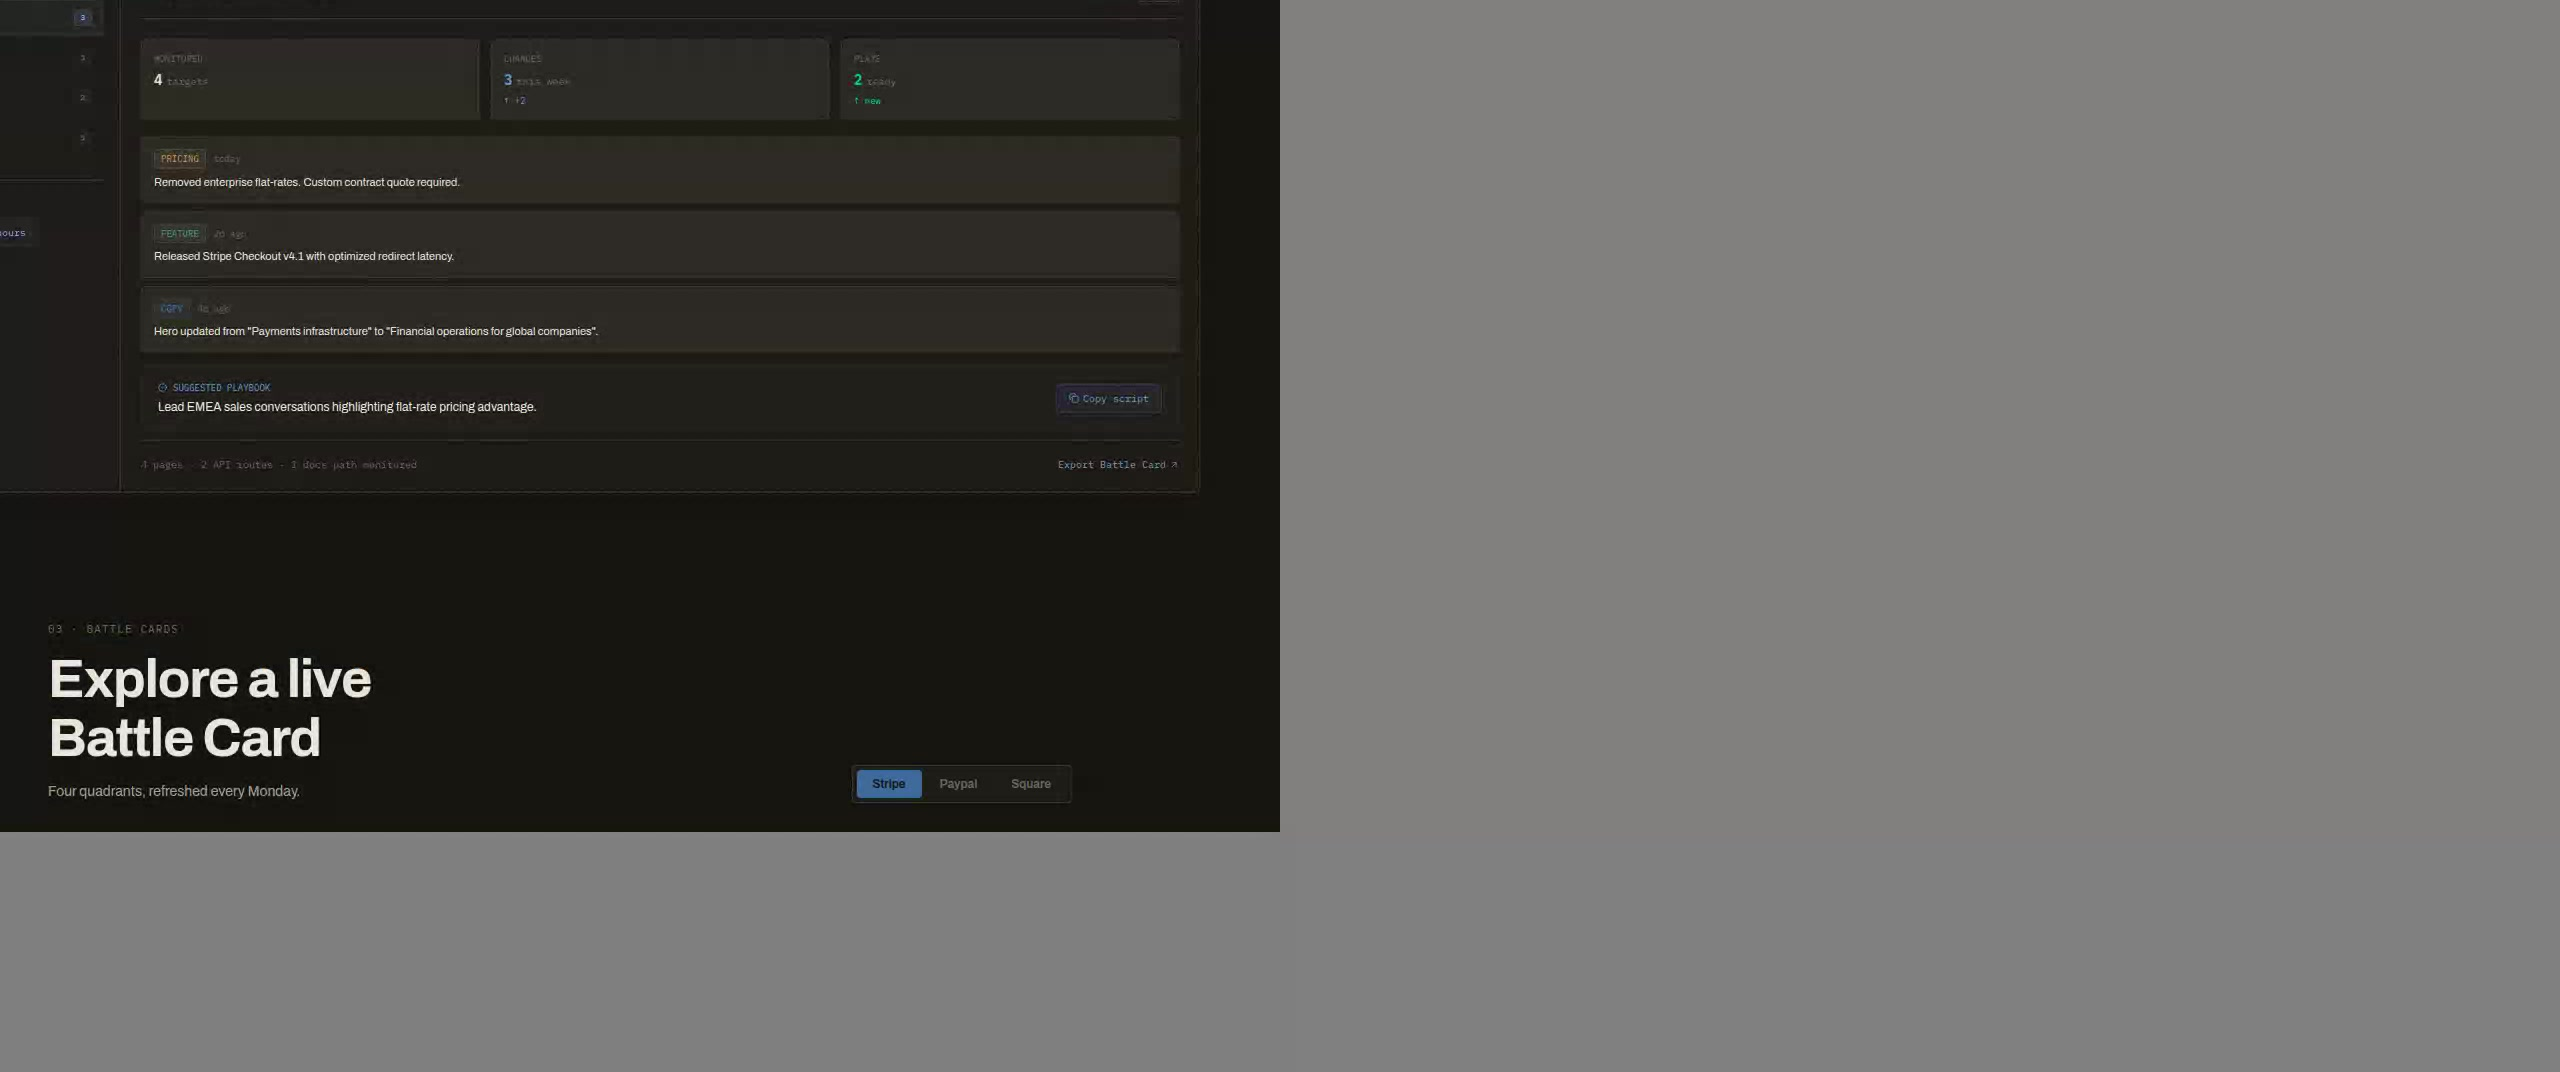
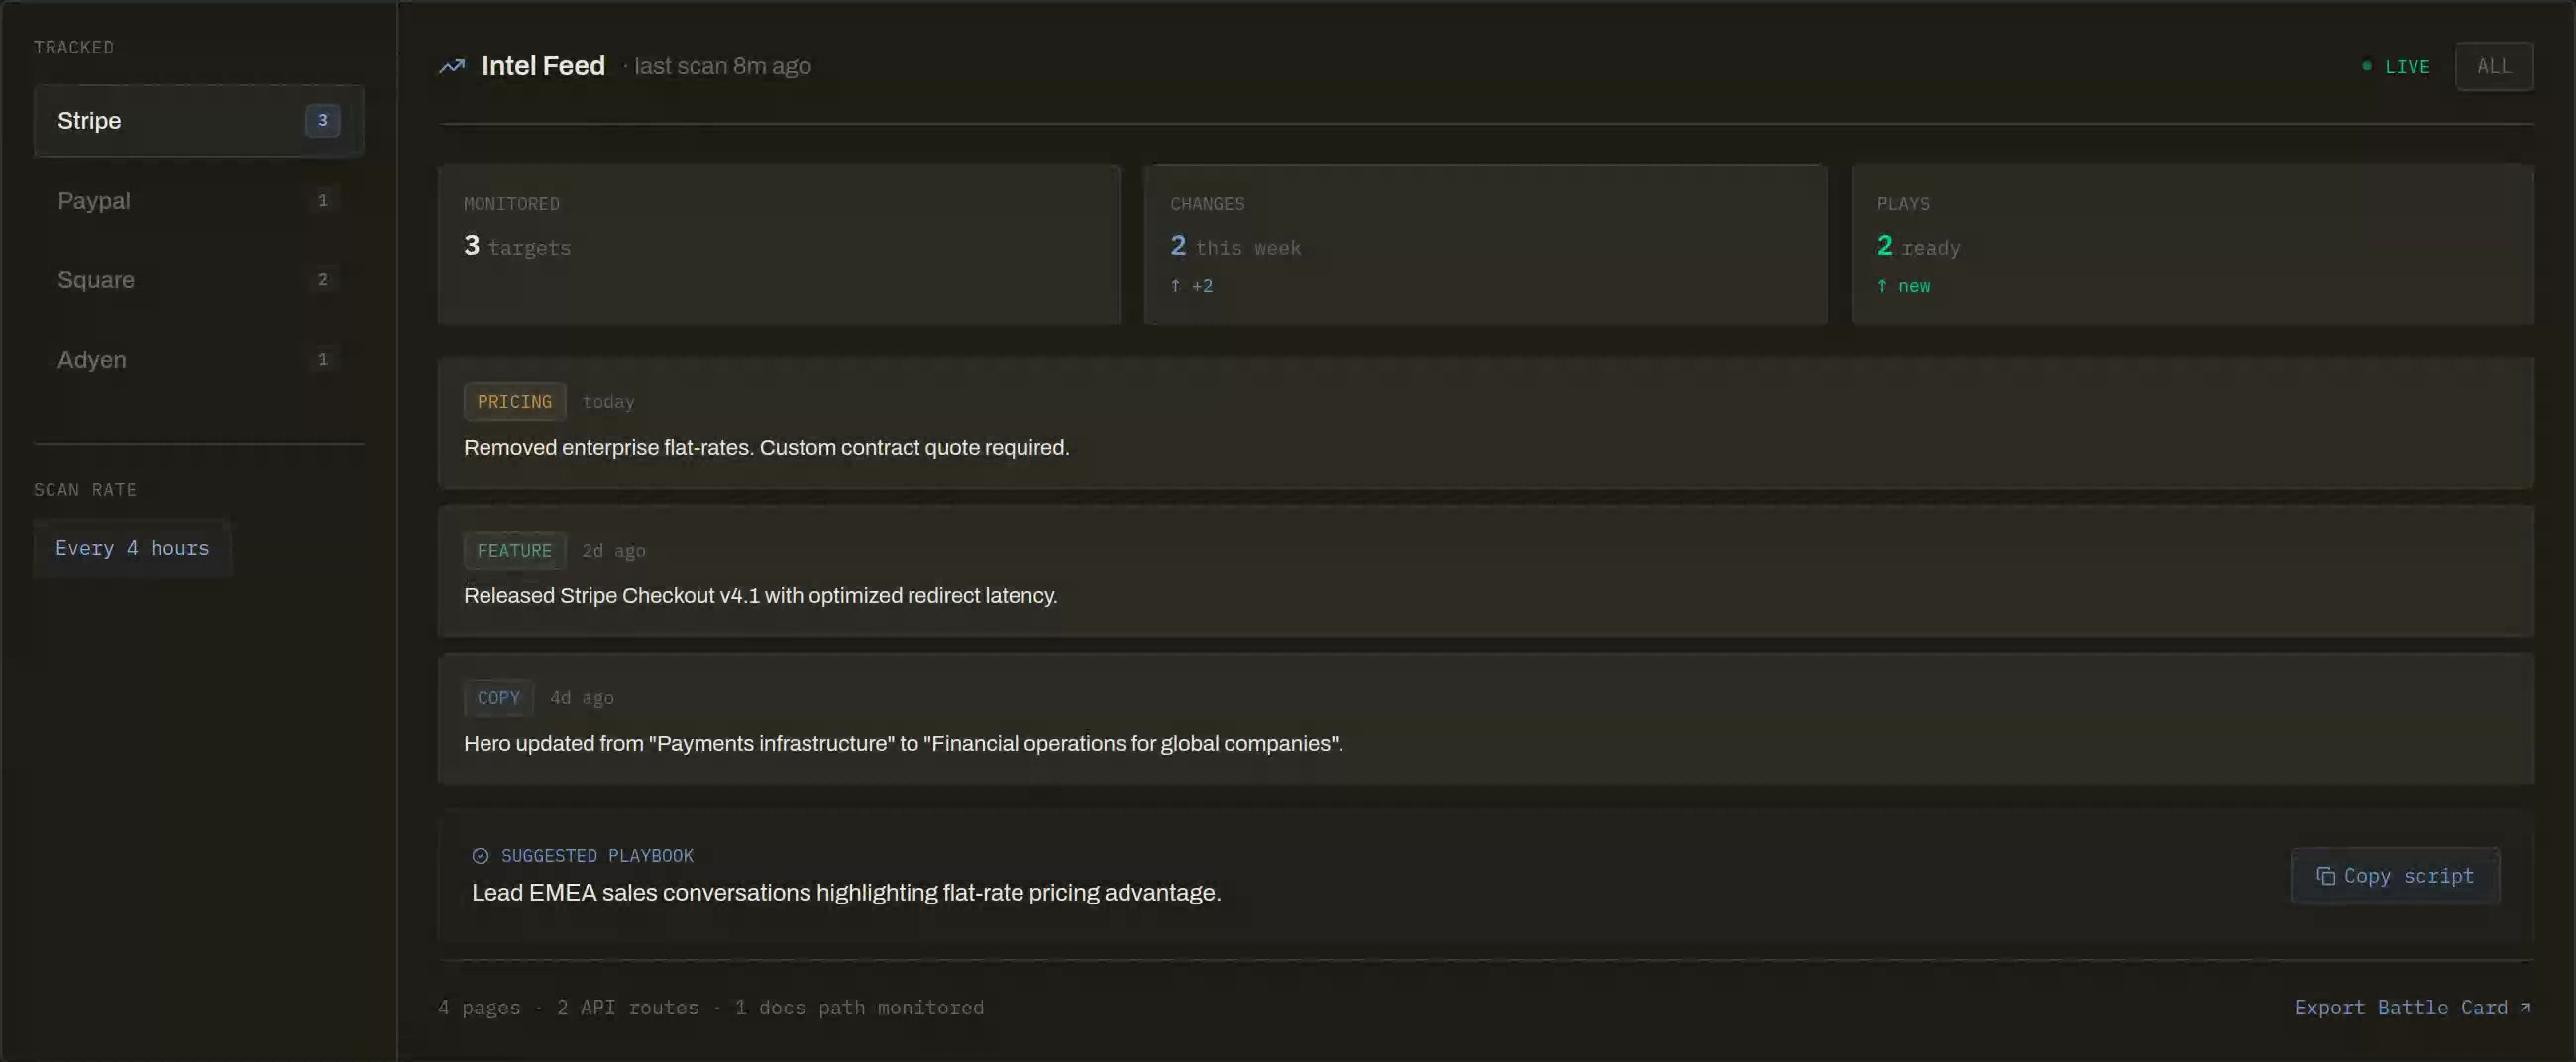
fix(landing): demo video rendered gray/partial — re-encode at true 2K
Previous 2x attempt was broken: Playwright recordVideo.size ignores
deviceScaleFactor, so it placed the CSS-sized page in the top-left of the
canvas and left the rest gray — the encoded frame was mostly empty.

Re-record with the Command Center card CSS-zoomed 2x (re-rasterized crisp)
and captured 1:1 → genuine 2600x1072 source. Restore the Ken Burns zoom
(the gray frame, not the transform, caused the earlier partial render).
Verified the decoded frame fully fills the element via canvas sampling.

diff --git a/frontend/src/components/ui/product-demo.tsx b/frontend/src/components/ui/product-demo.tsx
@@ -77,13 +77,13 @@ export default function ProductDemo() {
 
         {/* Recording (one <video> per theme so sources reload on switch).
             Source is 2× the display size, so the slow Ken Burns zoom stays crisp. */}
-        <div className="relative aspect-[2560/1072] w-full overflow-hidden bg-[var(--surface-raised)]">
+        <div className="relative aspect-[2600/1072] w-full overflow-hidden bg-[var(--surface-raised)]">
           <motion.video
             key={theme}
             ref={videoRef}
-            className="absolute inset-0 h-full w-full object-cover"
-            style={{ transformOrigin: '50% 44%' }}
-            animate={reduced ? undefined : { scale: [1, 1.07, 1.07, 1] }}
+            className="absolute inset-0 h-full w-full"
+            style={{ transformOrigin: '50% 45%' }}
+            animate={reduced ? undefined : { scale: [1, 1.06, 1.06, 1] }}
             transition={reduced ? undefined : { duration: 30, repeat: Infinity, ease: 'easeInOut', times: [0, 0.45, 0.55, 1] }}
             poster={`/demo/command-center-${theme}.jpg`}
             muted